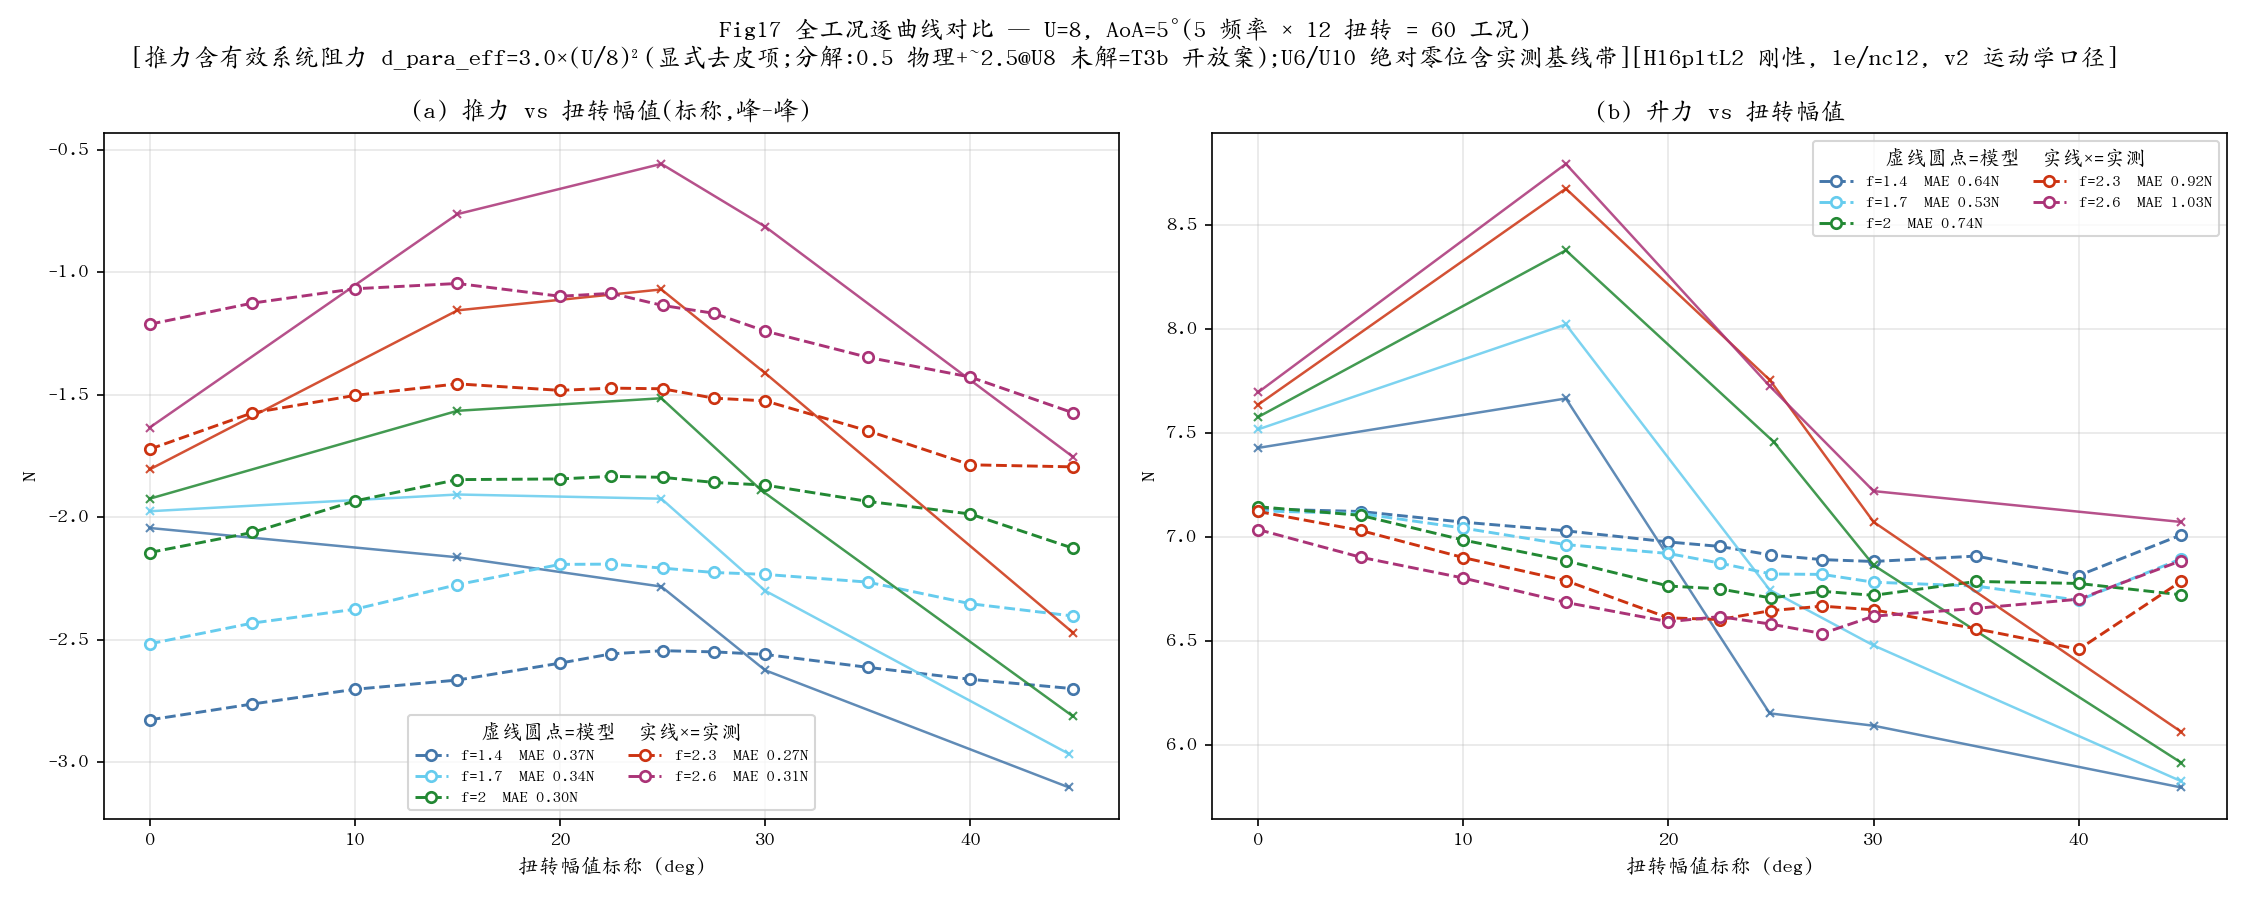
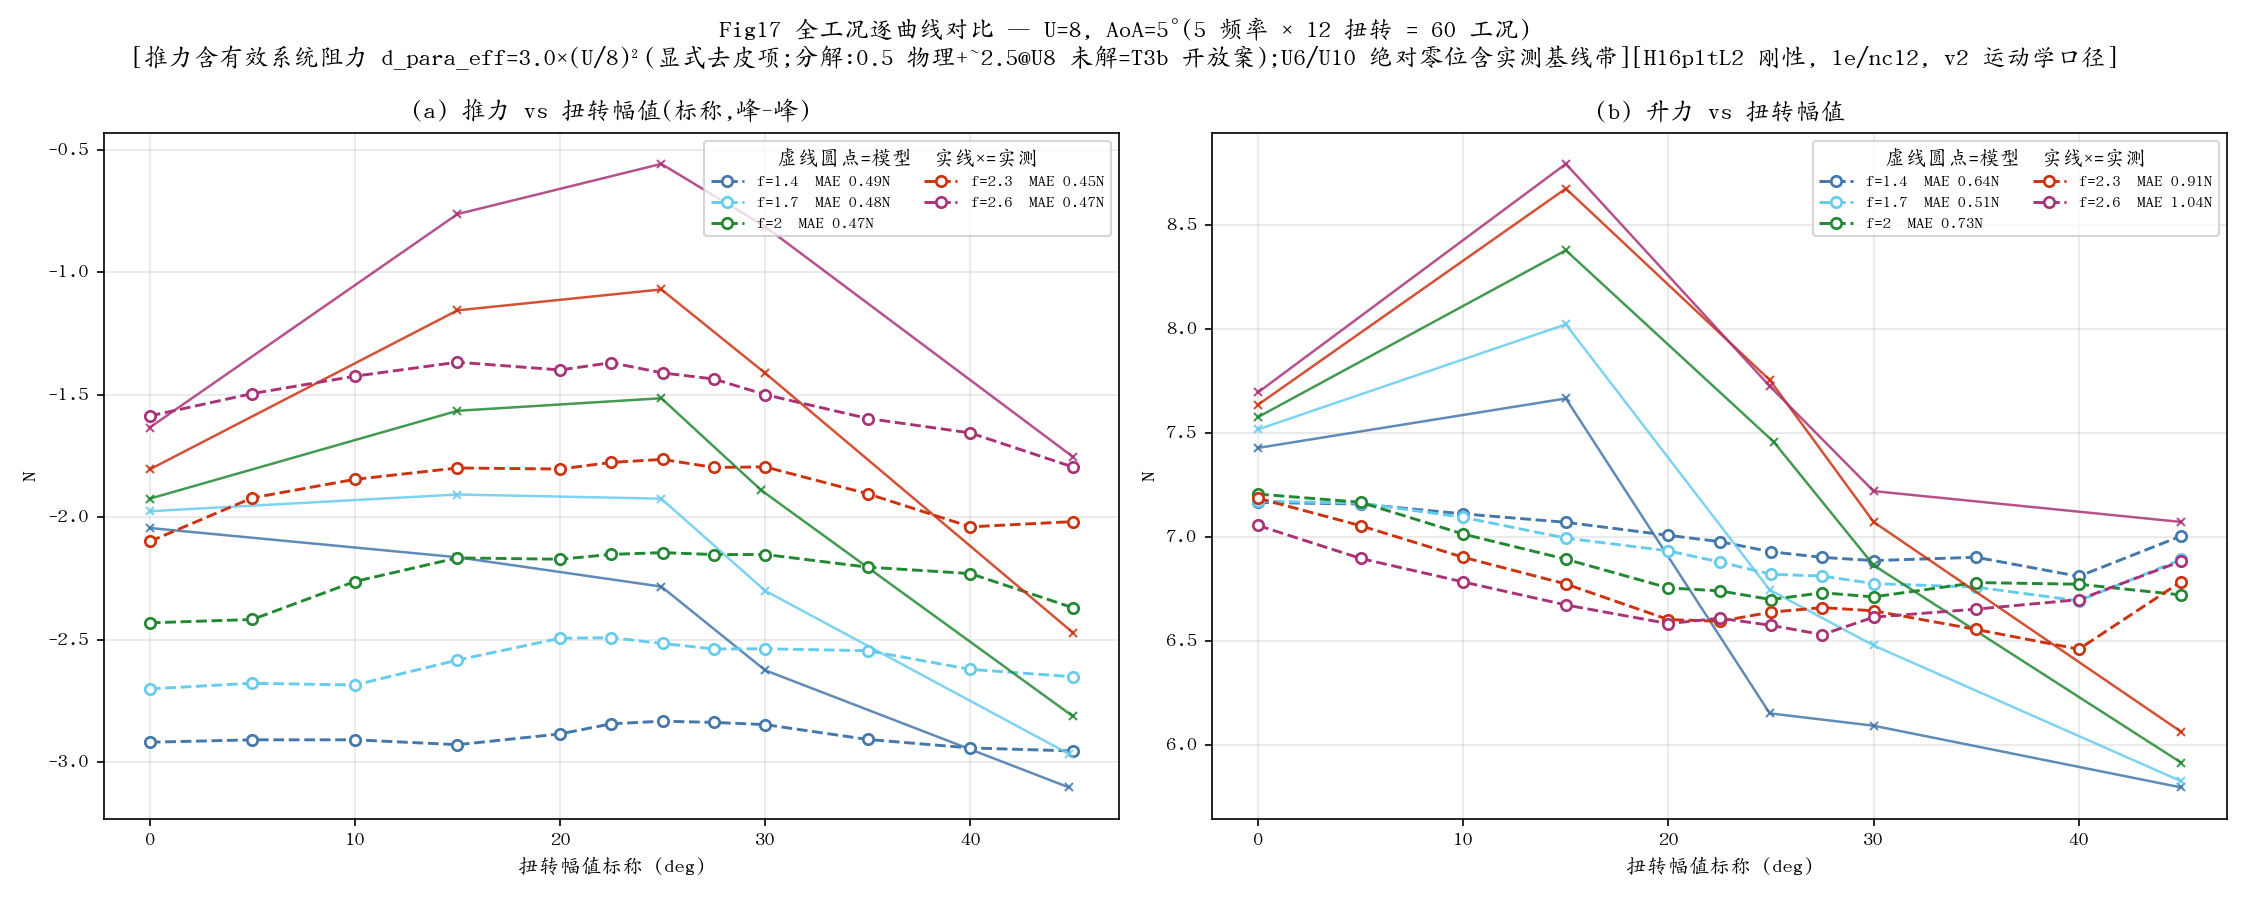
feat(v4): full sweep 118/118 + figures — T3b open-case residual shrinks (U8 +2.14->+1.84, U10 +0.52->+0.11)
uiuc measured polar absorbs ~0.3N of the previously-unexplained offset into
anchored physics; U10 line now physically closed to +-0.11N. Effective-
display convention kept at legacy d_para_eff for cross-version comparability
(curve-mean 0.86/0.85N thrust/lift). Physical ledger is primary.

diff --git a/platform/p2_s6_fig_sweep.py b/platform/p2_s6_fig_sweep.py
@@ -1,5 +1,5 @@
-"""全工况逐曲线对比图(用户指令 2026-07-15):118 工况刚性模型扫(s6_sweep_v3eff.json,
-H16pltL2fn+d_para物理(v3闭合)/le/nc12)vs 实测(repro_data.json),25+ 条曲线全画、逐曲线 MAE。
+"""全工况逐曲线对比图(用户指令 2026-07-15):118 工况刚性模型扫(s6_sweep_v4eff.json,
+H16pltL2fn+d_para物理(v4闭合(uiuc极曲线))/le/nc12)vs 实测(repro_data.json),25+ 条曲线全画、逐曲线 MAE。
 输出 p2_s6_fig17_sweep.png / fig18_sweep / fig19_sweep + 控制台逐曲线 MAE 表。"""
 import json
 import os
@@ -21,7 +21,7 @@ rcParams["axes.unicode_minus"] = False
 
 DOCS = os.path.join(os.path.dirname(os.path.abspath(__file__)), "docs")
 MEAS = json.load(open(os.path.join(DOCS, "repro_data.json")))
-SW = json.load(open(os.path.join(DOCS, "s6_sweep_v3eff.json")))
+SW = json.load(open(os.path.join(DOCS, "s6_sweep_v4eff.json")))
 
 TWS = [0.0, 5.0, 10.0, 15.0, 20.0, 22.5, 25.0, 27.5, 30.0, 35.0, 40.0, 45.0]
 FS = [1.4, 1.7, 2.0, 2.3, 2.6]
